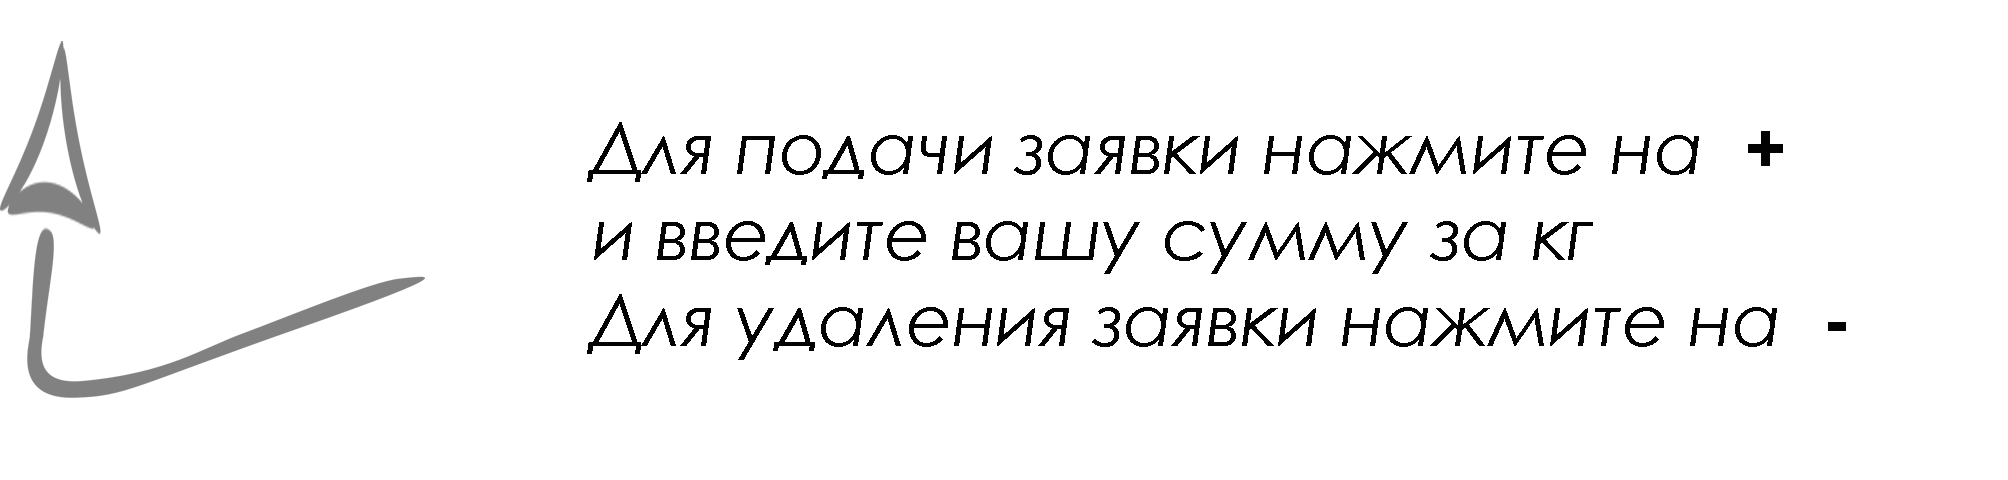
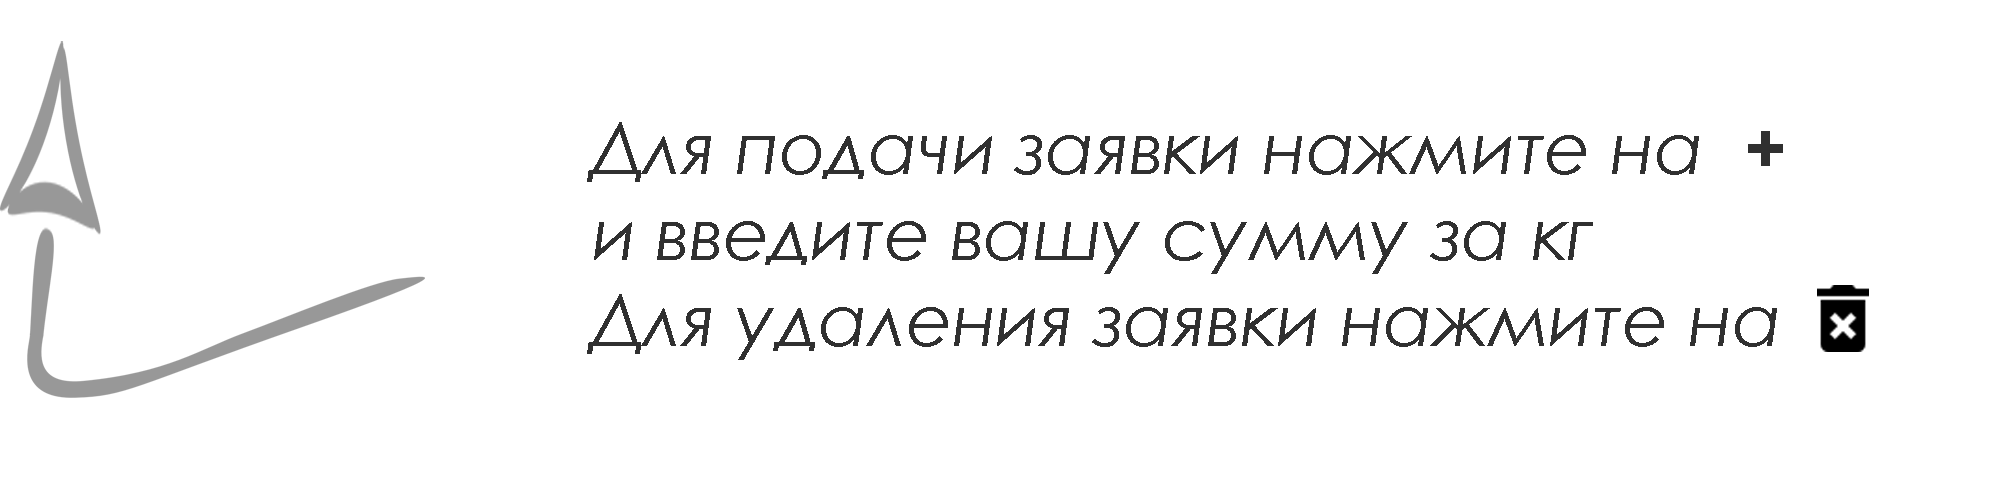
Поправил немного отображение данных в заказе  - ссылки в заявке  - значок удаления заявки заменил

Changed region(s): [[0.2779, 0.5938, 0.9263, 0.75], [0.2779, 0.2812, 0.8954, 0.375], [0.2779, 0.4375, 0.8028, 0.5625]]

diff --git a/htdocs/meshok/css/stylesheet.css b/htdocs/meshok/css/stylesheet.css
@@ -162,6 +162,14 @@ body {
 #a4table_td{
     min-width: 80px;
 }
+#a4table_td a{
+    font-weight: bold;
+    text-decoration: none;
+    color: #6c7274;
+}
+#a4table_td a:hover{
+    color: #c8c8c8;
+}
 #a4table_td_phone{
     width: 150px;
 }
@@ -187,6 +195,10 @@ body {
     height:28px;
     margin-left: 5px;
     margin-bottom: 0px;
+    opacity: 0.5;
+}
+#img_add_bid:hover{
+    opacity:0.8;
 }
 #hiden_input{
     display: none;

diff --git a/htdocs/meshok/logged/order.php b/htdocs/meshok/logged/order.php
@@ -36,7 +36,8 @@ $rowMyBids = mysqli_fetch_array($queryMyBids);
                     if($_SESSION['user_id']!=$rowMyBids['user_id']){?>
                         <a onclick="return addBidField()" href="#"><img id="img_add_bid" src="images/ic_add.png" alt="Подать заявку"/></a>
                     <?php } else { ?>
-                        <a href="?act=removeBid&bid=<?php echo $rowMyBids['bid_id']; ?>&oid=<?php echo $_GET['oid']; ?>"><img id="img_add_bid" src="images/ic_remove_.png" alt="Подать заявку"/></a>
+                        <a href="?act=removeBid&bid=<?php echo $rowMyBids['bid_id']; ?>&oid=<?php echo $_GET['oid']; ?>"><img id="img_add_bid" src="images/ic_delete_forever.png" alt="Подать заявку"/></a>
+
                     <?php } ?>
                     <div id="parentId">
                         <!--fields create here!-->
